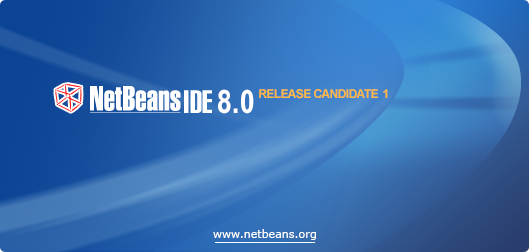
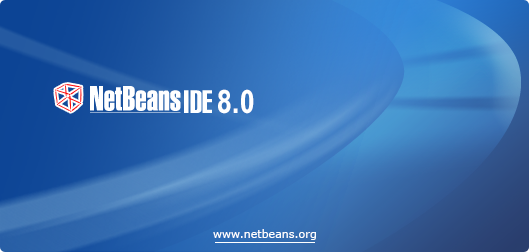
8.0 final branding.

Changed region(s): [[0.4839, 0.3333, 0.7561, 0.3889]]

diff --git a/installer/infra/build/web/start.html b/installer/infra/build/web/start.html
@@ -2,7 +2,7 @@
 <!--
   DO NOT ALTER OR REMOVE COPYRIGHT NOTICES OR THIS HEADER.
 
-  Copyright 1997-2010 Oracle and/or its affiliates. All rights reserved.
+  Copyright 1997-2014 Oracle and/or its affiliates. All rights reserved.
 
   Oracle and Java are registered trademarks of Oracle and/or its affiliates.
   Other names may be trademarks of their respective owners.
@@ -180,12 +180,6 @@
                                                     replace("{1}",LICENSE_FILES_LINK).
                                                     replace("{2}",LICENSE_FILES_LINK))
                                             </script>
-                                            <br><br>
-                                                <p>
-                                                    <script type="text/javascript">
-                                                            message(LEGAL_WARNING_MESSAGE)
-                                                    </script>
-                                                </p>
                                         </div>
                                     </div>
 

diff --git a/installer/infra/build/web/index.html b/installer/infra/build/web/index.html
@@ -2,7 +2,7 @@
 <!--
   DO NOT ALTER OR REMOVE COPYRIGHT NOTICES OR THIS HEADER.
 
-  Copyright 1997-2012 Oracle and/or its affiliates. All rights reserved.
+  Copyright 1997-2014 Oracle and/or its affiliates. All rights reserved.
 
   Oracle and Java are registered trademarks of Oracle and/or its affiliates.
   Other names may be trademarks of their respective owners.
@@ -278,12 +278,6 @@
                                         replace("{1}",LICENSE_FILES_LINK).
                                         replace("{2}",LICENSE_FILES_LINK))
                                 </script>
-                                <br><br>
-                                    <p>
-                                        <script type="text/javascript">
-                                                message(LEGAL_WARNING_MESSAGE)
-                                        </script>
-                                    </p>
                             </div>
                         </div>
 

diff --git a/installer/infra/build/web/js/build_info.js b/installer/infra/build/web/js/build_info.js
@@ -64,8 +64,8 @@ build_info.BOUNCER_URL = "http://services.netbeans.org/bouncer/index.php";
 build_info.USE_HTML_ZIP_LISTING = 1;
 
 build_info.add_download_tabs = function() {
-	add_download_tab("7.4", "http://netbeans.org/downloads/");
-        add_download_tab("8.0 RC1");
+	add_download_tab("7.4", "http://netbeans.org/downloads/7.4");
+        add_download_tab("8.0");
 	add_download_tab(DEVELOPMENT_TITLE,DEVELOPMENT_BUILDS_LINK);
 	add_download_tab(ARCHIVE_TITLE,ARCHIVE_BUILDS_LINK);
 }
